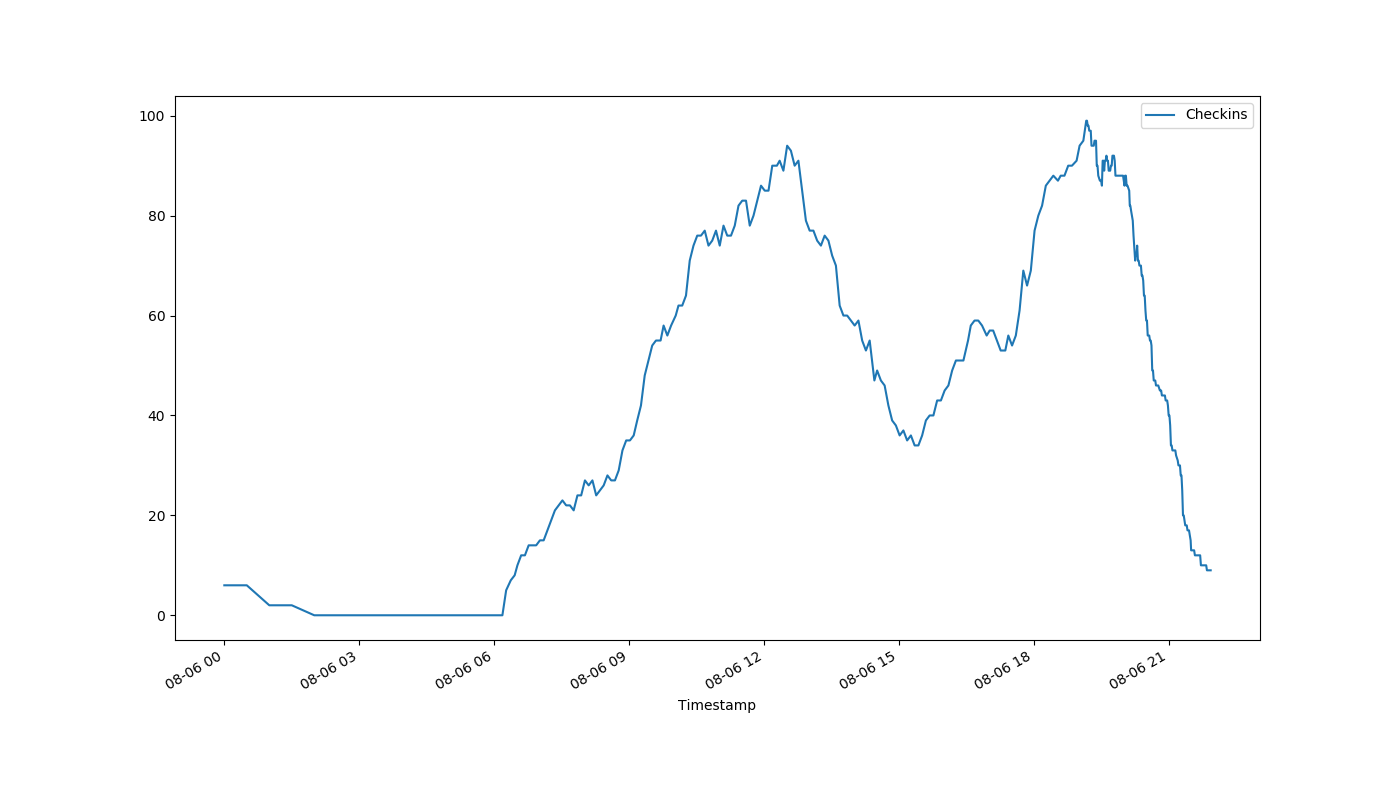
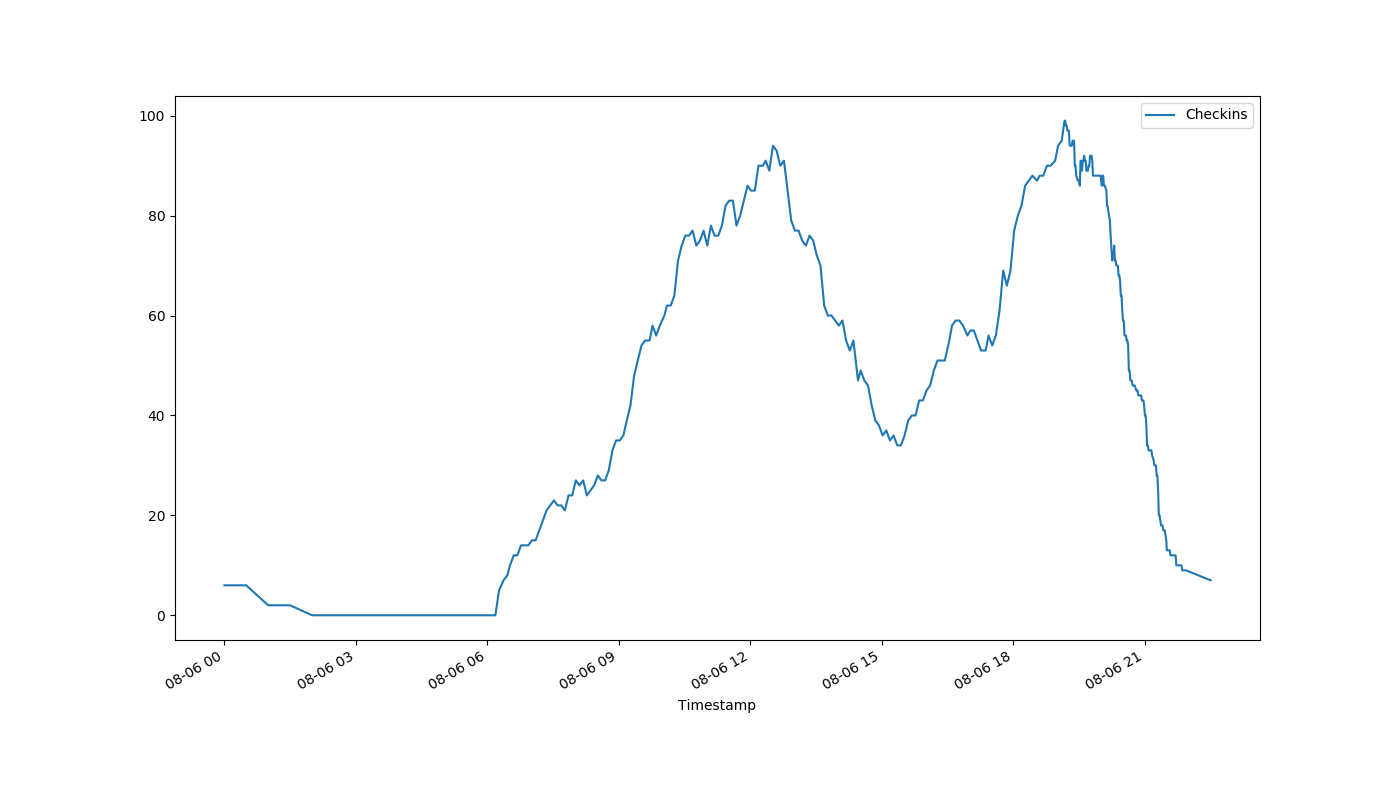
auto-Aug-06-22:31:25

diff --git a/index.html b/index.html
@@ -1,1 +1,1 @@
-<!DOCTYPE html><html><head><meta http-equiv="refresh" content="30"><link rel='stylesheet' href='holmcurrent.css'></head><body><p id='count'>9</p><div id='graph-wrap'><img id='graph' src='holmgraph-Aug-06.png'></div><p id='updated'>Last updated 21:57:01 / 21:56:14</p></body></html>
+<!DOCTYPE html><html><head><meta http-equiv="refresh" content="30"><link rel='stylesheet' href='holmcurrent.css'></head><body><p id='count'>7</p><div id='graph-wrap'><img id='graph' src='holmgraph-Aug-06.png'></div><p id='updated'>Last updated 22:31:01 / 22:30:14</p></body></html>
